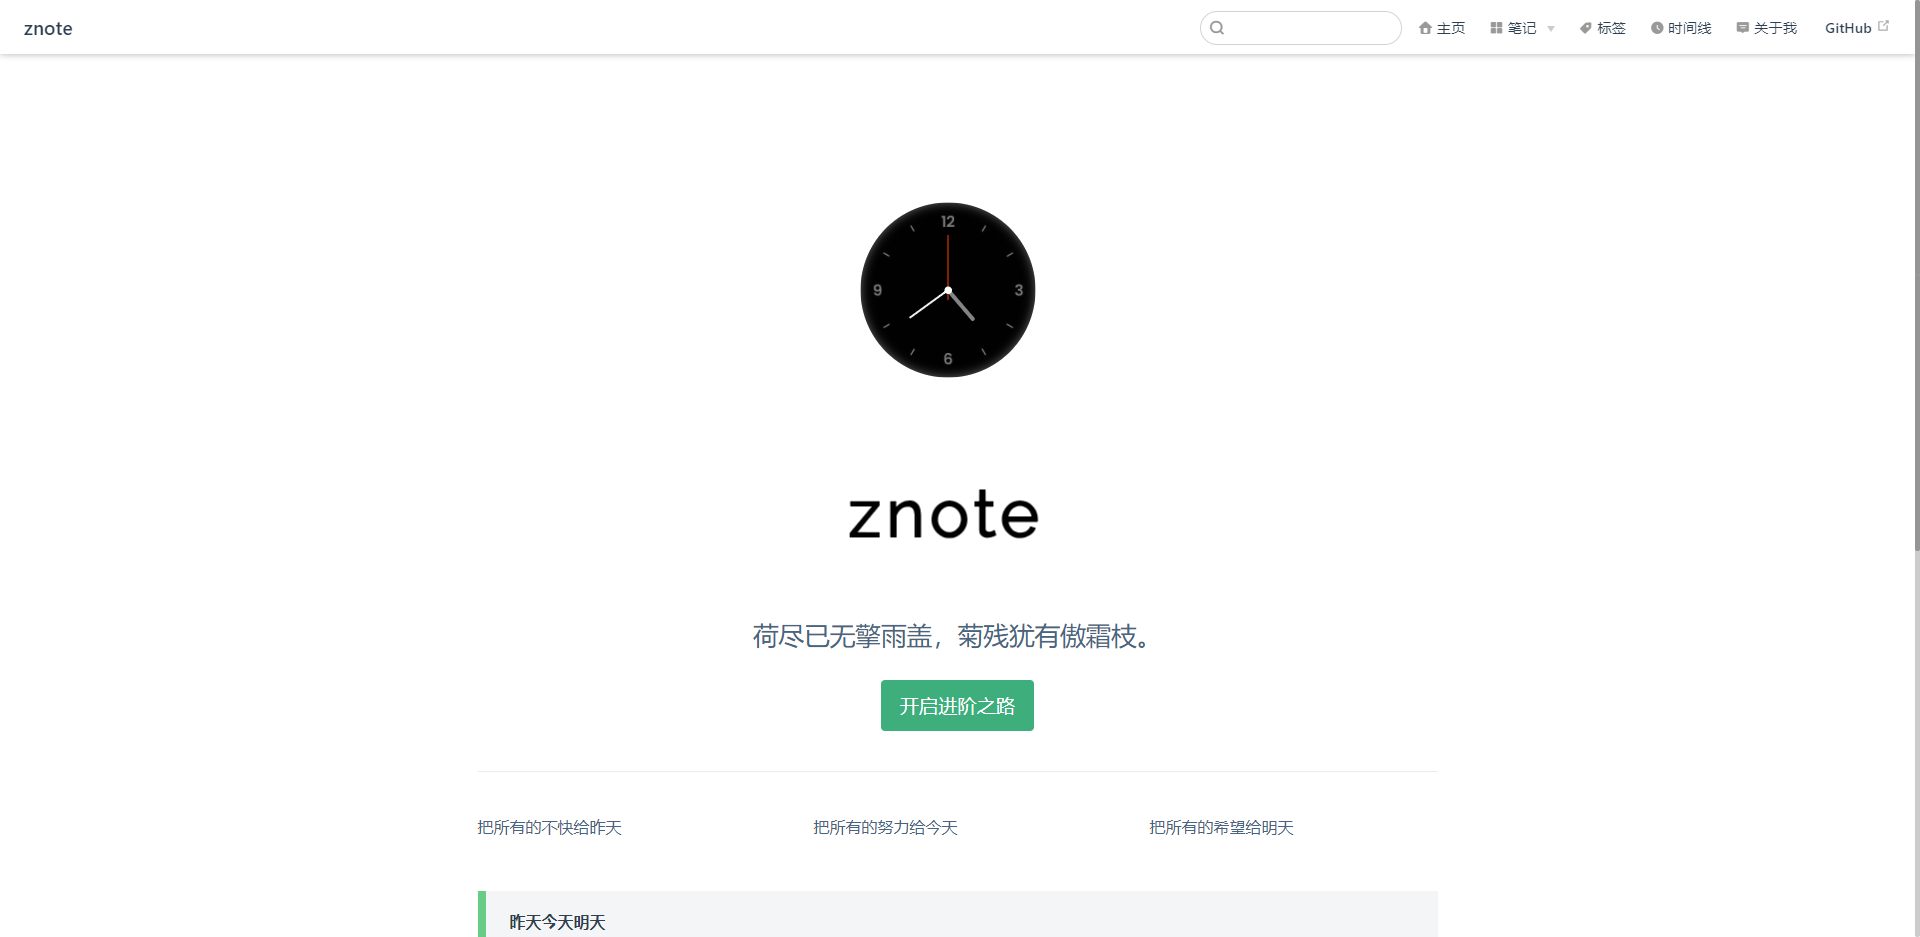
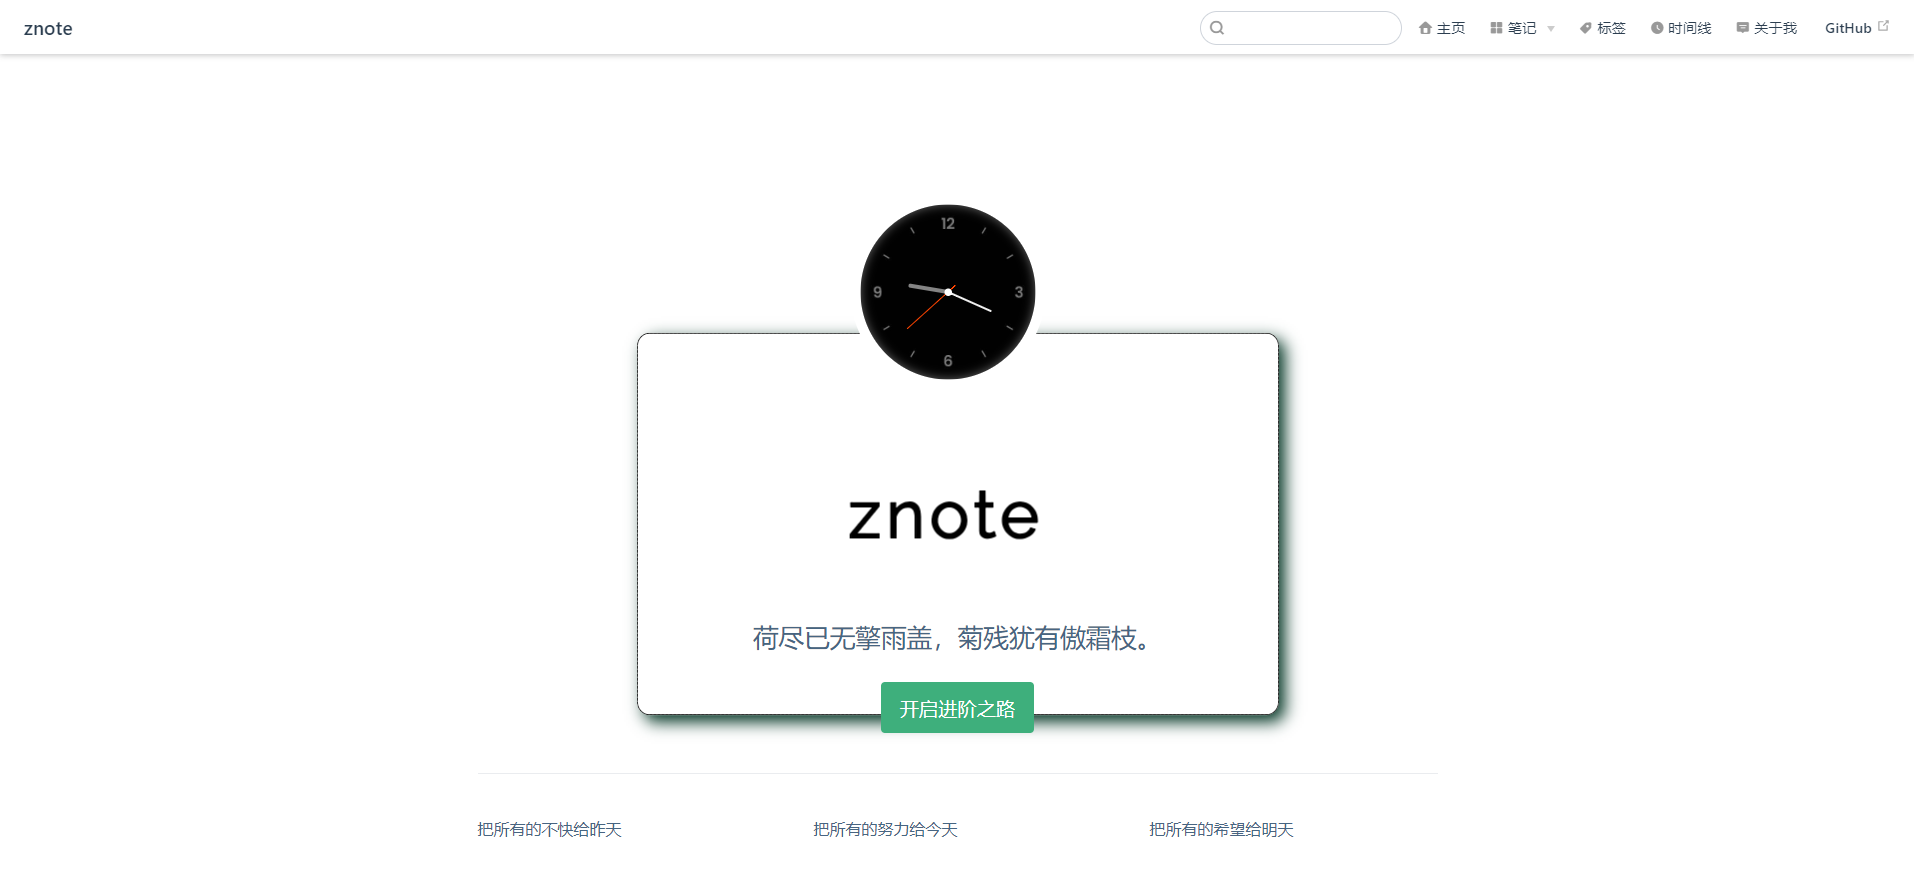
add docs

diff --git a/docs/README.md b/docs/README.md
@@ -7,8 +7,10 @@ heroImageStyle: {
   height: '15%',,
   display: block,
   margin: '24% auto -26% auto',
+  border: '1px dashed #000',
+  box-shadow: '8px 8px 20px #032',
   borderRadius: '1rem',
-  background: 'rgba(0, 0, 0, 0.9) none repeat scroll !important',
+  background: 'rgba(0, 0, 0, 0.8) none repeat scroll !important',
   transform: scale(0.8,0.8),
 }
 isShowTitleInHome: true
